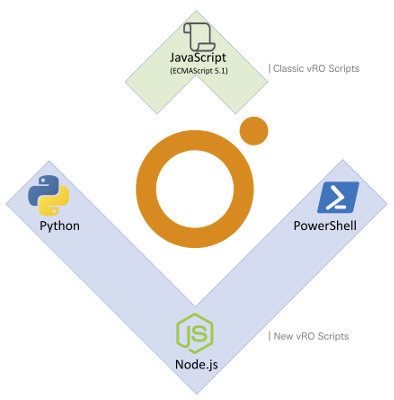
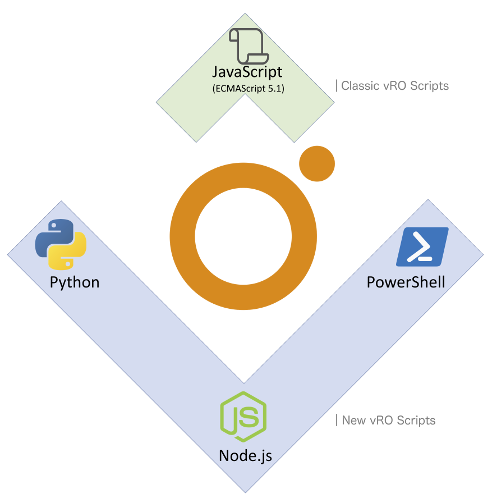
Resize main image

diff --git a/README.md b/README.md
@@ -3,8 +3,6 @@ A collection of vRealize Orchestrator Polyglot example scripts in Node.js, Pytho
 
 ![vRO Script Runtimes](https://github.com/tgeorgiev/vro-polyglot-scripts/blob/master/assets/vro.png)
 
-![vRO Script Runtimes](https://github.com/tgeorgiev/vro-polyglot-scripts/blob/master/assets/vro.png)
-
 ## About this Repository
 This repository provides simple template-like scripts to get you up to speed with the multi language development introduced in vRO 8.1. The functions are intended to be as simple and informative as possible to let you know the basics and extend further for your specific use cases.
 
